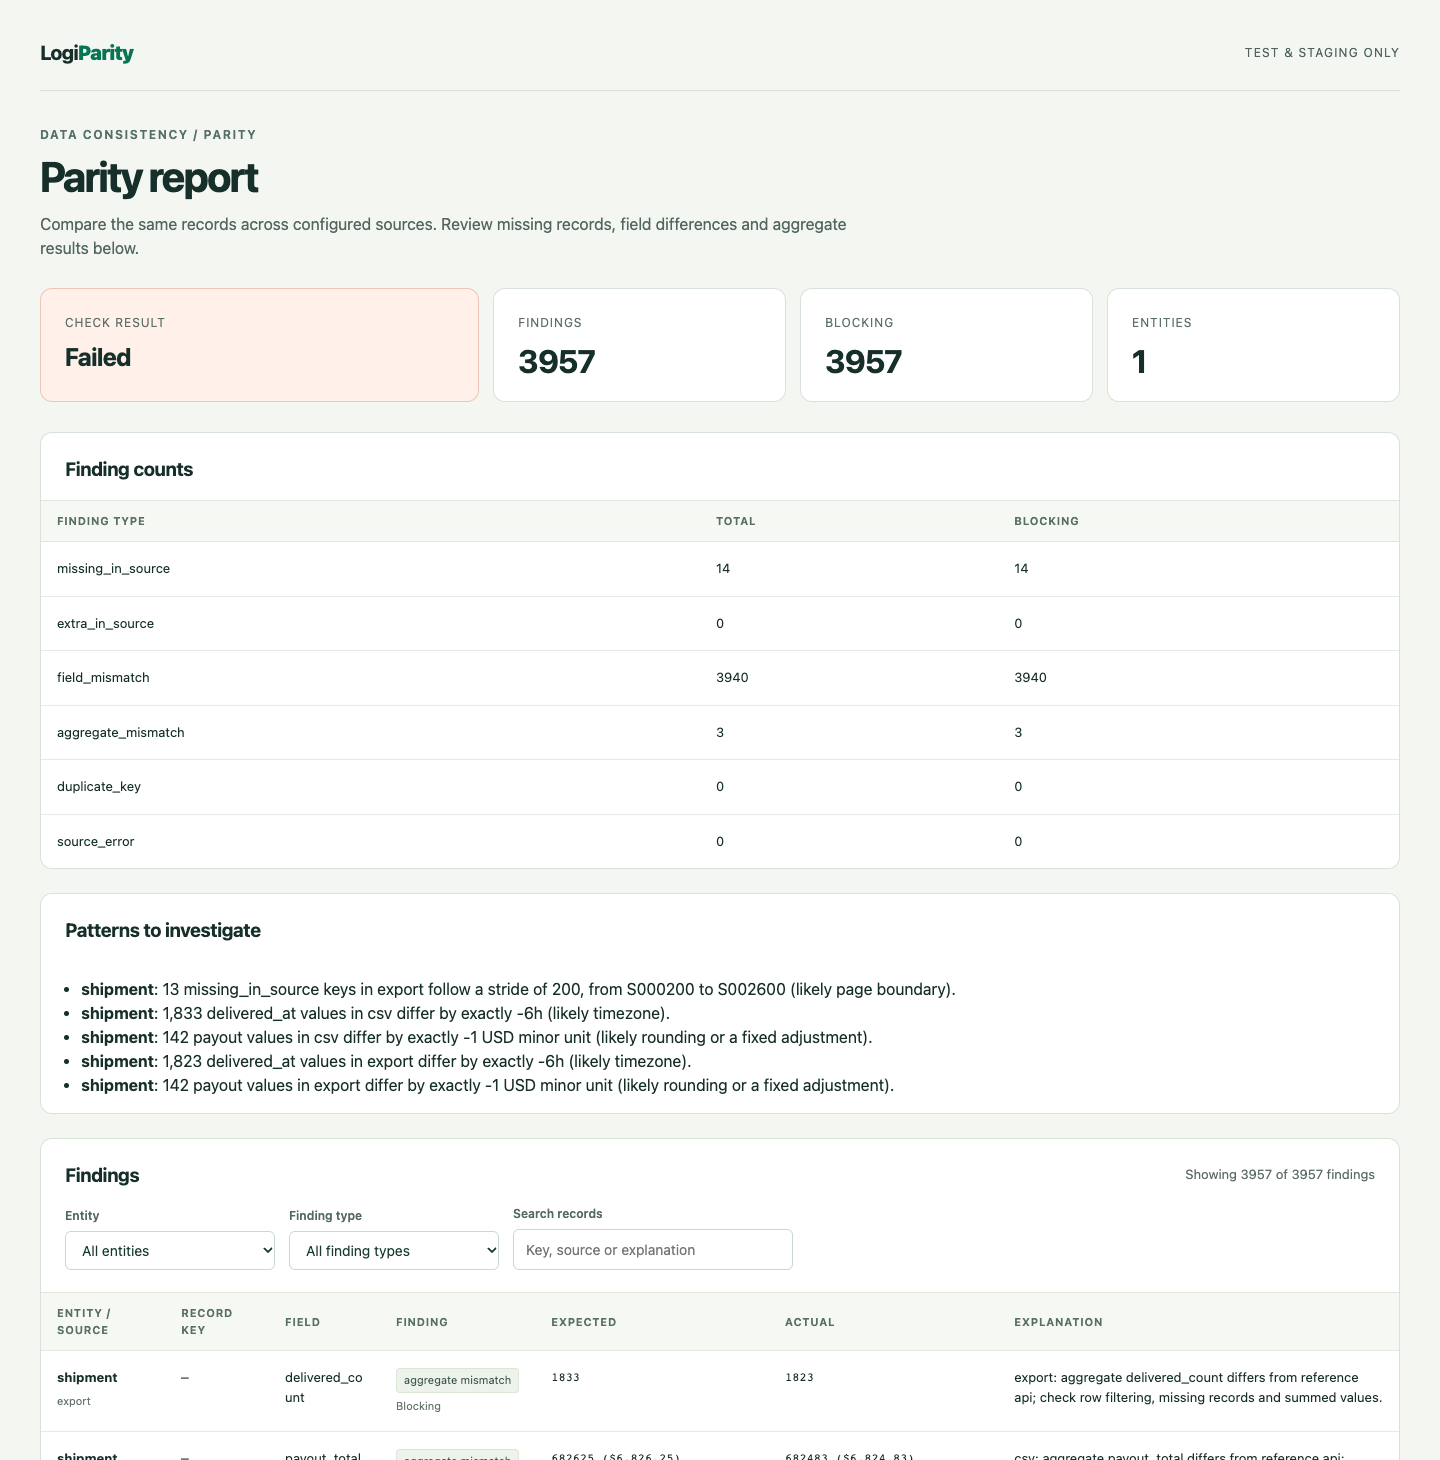
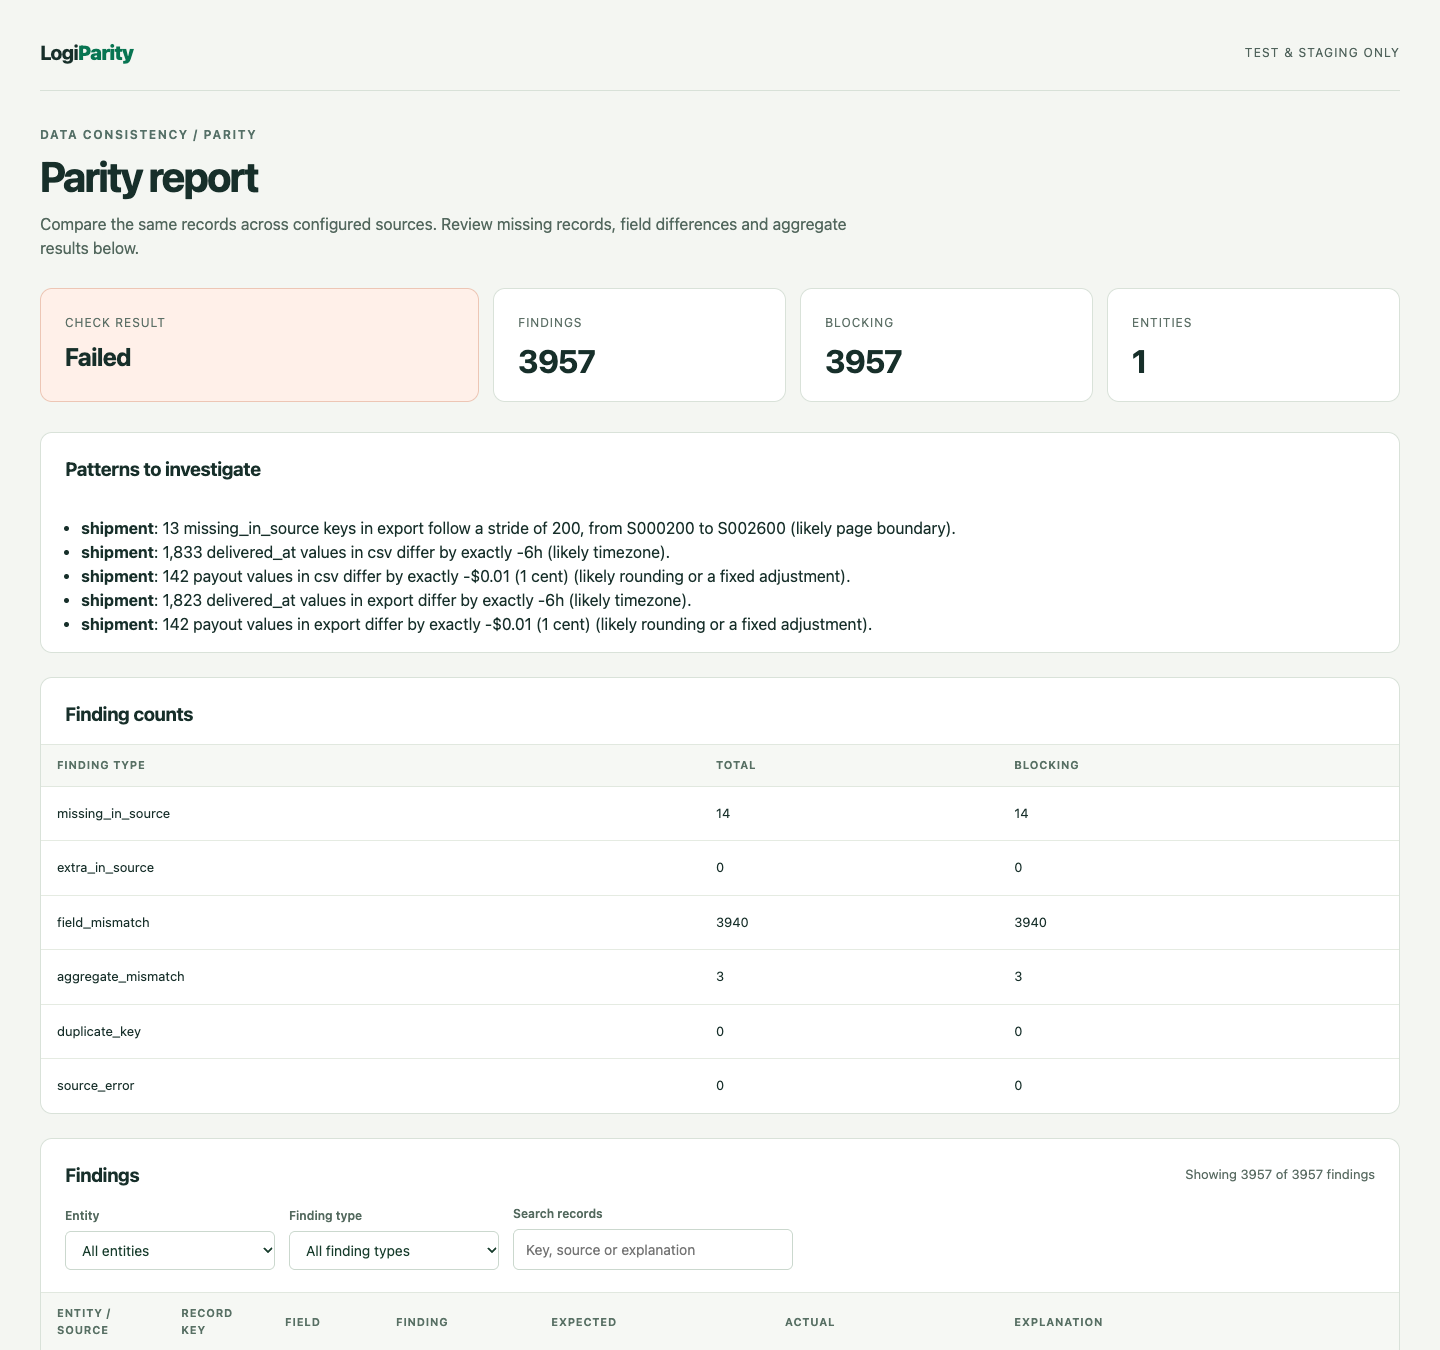
docs: record M9 verification and refresh report preview

diff --git a/docs/development/milestones.md b/docs/development/milestones.md
@@ -11,20 +11,26 @@ LogiParity is written in strict TypeScript and ESM for Node.js 20 or later. Test
 | M5 | Optional AI drafts with local payload previews, redaction and mock-provider tests. |
 | M6 | Standalone bundled package, public API exports, Docker build, CI templates and user guides. |
 
-M6 local verification: 205 unit and adapter tests, 62 end-to-end tests, and 100% core line coverage on Node 20.20.2 and 22.23.4. The standalone package installed offline with an empty cache. The Docker image passed non-root Chromium and report checks on linux/arm64. A clean-source quickstart with fresh dependency downloads finished in 15.33 seconds on the development machine.
+M6 verification: 205 unit and adapter tests, 62 end-to-end tests, and 100% core line coverage on Node 20.20.2 and 22.23.4. The standalone package installed offline with an empty cache. The Docker image passed non-root Chromium and report checks on linux/arm64. A clean-source quickstart with fresh dependency downloads finished in 15.33 seconds.
 
 ## M7 — Pre-release fixes
 
 - Added REST completion signals and cap detection, opt-in numeric money, pattern groups, HTML finding counts, console UTC values and clearer column/key diagnostics. Selected invariants read only their required state. Implementation: `e02381e`.
 - Reworked onboarding and contributor guides, manual/nightly staging CI defaults, release-tarball installation instructions and a generic driver no-show example.
 - Node 20.20.2 and 22.23.4: lint, typecheck, 244 unit/adapter tests and 73 end-to-end tests passed. Core line coverage: 99.75% (404/405).
-- A fresh GitHub clone with the local M7 patch passed the README workflow using the documented port override because 3010 was occupied: 2,750 records per source, zero findings and all four report files. The clean-source quickstart helper also passed. Empty-cache offline package installation, public APIs/types, CLI reports, documentation checks, workflow lint and desktop/mobile report search passed.
-- Docker smoke testing was not repeated: the local Docker daemon was unavailable. M6 container results are recorded above.
+- The README workflow and clean-source quickstart passed: 2,750 records per source, zero findings and all four report files. Empty-cache offline package installation, public APIs/types, CLI reports, documentation checks, workflow lint and desktop/mobile report search passed.
+- M7 container verification remains covered by the M6 results; the Docker daemon was unavailable for a repeat run.
 
 ## M8 — Release readiness
 
 - Enforced UI redirect origins, rejected rendered dot-segments, required explicit opt-in for scenario-local module entries, and rejected executable AI drafts. Expanded secret masking and sanitized diagnostic paths and terminal output. Main implementation: `bbafc39`.
 - Added strict short-first-page handling with an explicit opt-out, exact per-key rollups and a freight settlement example, optional/fixed scenario waits, record-stride summaries, version output and source-free configuration validation.
-- Prepared checksum-verified release assets, a CI-gated tag workflow, full/slim Docker targets and consumer caching/timeouts. Added design rationales, later completed with the author's own origin stories, and refreshed the parity/scenario screenshots. Build preparation: `91acdbb`.
+- Prepared checksum-verified release assets, a CI-gated tag workflow, full/slim Docker targets and consumer caching/timeouts. Documented design rationales and author background, and refreshed the parity/scenario screenshots. Build preparation: `91acdbb`.
 - Node 20.20.2 and 22.23.4 passed lint, typecheck, 284 unit/adapter tests and 82 end-to-end tests each, with two local test workers. Core line coverage: 99.78% (468/469). Empty-cache offline package installation, public APIs/types and installed CLI checks passed, including missing/extra groups in AI explanations (`13de83a`).
-- README and freight commands passed in a fresh GitHub clone with local changes and the documented port override. The clean-source helper also passed: 2,750 records per demo source and three freight loads rolled up from nine settlement lines, all with zero findings. Both Docker targets passed on linux/arm64 as UID 1000; the full image ran Chromium and the slim image contained no browsers. API/file checks, SQL validation, report generation, offline AI, documentation links/YAML and workflow lint passed.
+- README and freight commands passed from a clean checkout. The clean-source helper also passed: 2,750 records per demo source and three freight loads rolled up from nine settlement lines, all with zero findings. Both Docker targets passed on linux/arm64 as UID 1000; the full image ran Chromium and the slim image contained no browsers. API/file checks, SQL validation, report generation, offline AI, documentation links/YAML and workflow lint passed.
+
+## M9 — 1.0.1 public-test fixes
+
+- Fixed consumer npm ci, secret interpolation/AI masking, shared validation/env checks, rollup conflicts/blanks/duplicates, money/date parsing and report presentation. Vendored the unchanged ExcelJS runtime with explicit patched dependencies and upstream attribution.
+- Prepared 1.0.1 npm OIDC/provenance, checksums, CycloneDX SBOM and container CI templates. LOGIPARITY_IMAGE intentionally contains a marked digest placeholder, replaced in a follow-up after publication.
+- Node 20.20.2 and 22.23.4 passed lint/types, 301 unit/adapter tests and 87 e2e tests; core line coverage 99.64% (558/560). Consumer install/npm ci/offline checks, public APIs/types, README quickstart/staging (YAML identical to init), freight, docs/workflow lint and desktop/mobile report search passed. Full/slim images passed on arm64 as UID 1000, including full-image Chromium. The slim index built and passed CLI/freight smoke checks on both amd64 and arm64.

diff --git a/docs/dependency-audit.md b/docs/dependency-audit.md
@@ -9,7 +9,7 @@ Recorded on 2026-11-03 with npm 11.6.0 and the 1.0.1 lockfile.
 
 The six runtime entries are archiver, archiver-utils, glob, minimatch, readdir-glob and zip-stream. These are cascading affected-package entries for [minimatch globparts amplification](https://github.com/advisories/GHSA-g3hv-75wg-m249), affecting minimatch below 11.0.1. The private ExcelJS runtime still uses that archiver chain; its private package name is not separately counted by npm audit. Development lint dependencies account for the additional entries.
 
-Vitest and its coverage provider are pinned to 4.1.12. The private vendored ExcelJS 4.4.0 manifest explicitly requires unzipper 0.12.5 and uuid 11.1.1; its Node runtime is unchanged. Consumer lockfiles therefore agree with the bundled tree without root overrides. Upstream integrity, changes and retained MIT attribution are recorded in [vendor provenance](../vendor/exceljs/PROVENANCE.md).
+Vitest and its coverage provider are pinned to 4.1.12. The private vendored ExcelJS 4.4.0 manifest explicitly requires unzipper 0.12.5 and uuid 11.1.1; its Node runtime is unchanged. Consumer lockfiles therefore agree with the bundled tree without root overrides. Upstream integrity, changes and retained MIT attribution are recorded in [vendor provenance](https://github.com/Nutts5796/logiparity/blob/main/vendor/exceljs/PROVENANCE.md).
 
 Forcing minimatch 11 into legacy callers expecting the earlier callable interface requires compatibility work. The remaining moderate advisory is tracked as a dependency limitation. The XLSX reader uses explicit workbook entries and rows; this does not establish that arbitrary hostile files are safe. Container publication still requires reviewing the final image and its dependency inventory.
 

diff --git a/docs/release.md b/docs/release.md
@@ -9,7 +9,7 @@
    git push origin v1.0.1
    ```
 
-   [The release workflow](../.github/workflows/release.yml) runs the reusable CI once for the tag; ordinary CI push triggers accept branches only. The release job uses Node 22 and npm 11.6.0, with `id-token: write` for npm OIDC, `contents: write` for GitHub releases and `packages: write` for GHCR. npm trusted publishing requires npm 11.5.1+ and Node 22.14+.
+   [The release workflow](https://github.com/Nutts5796/logiparity/blob/main/.github/workflows/release.yml) runs the reusable CI once for the tag; ordinary CI push triggers accept branches only. The release job uses Node 22 and npm 11.6.0, with `id-token: write` for npm OIDC, `contents: write` for GitHub releases and `packages: write` for GHCR. npm trusted publishing requires npm 11.5.1+ and Node 22.14+.
 
    `npm run release:prepare` builds the tarball, writes its SHA-256 file and a CycloneDX SBOM from an empty-cache offline consumer installation. The SBOM names the installed LogiParity artifact as root and lists bundled runtime dependencies, including the private ExcelJS package; development tooling is excluded. You can run this command locally without publishing anything.
 
